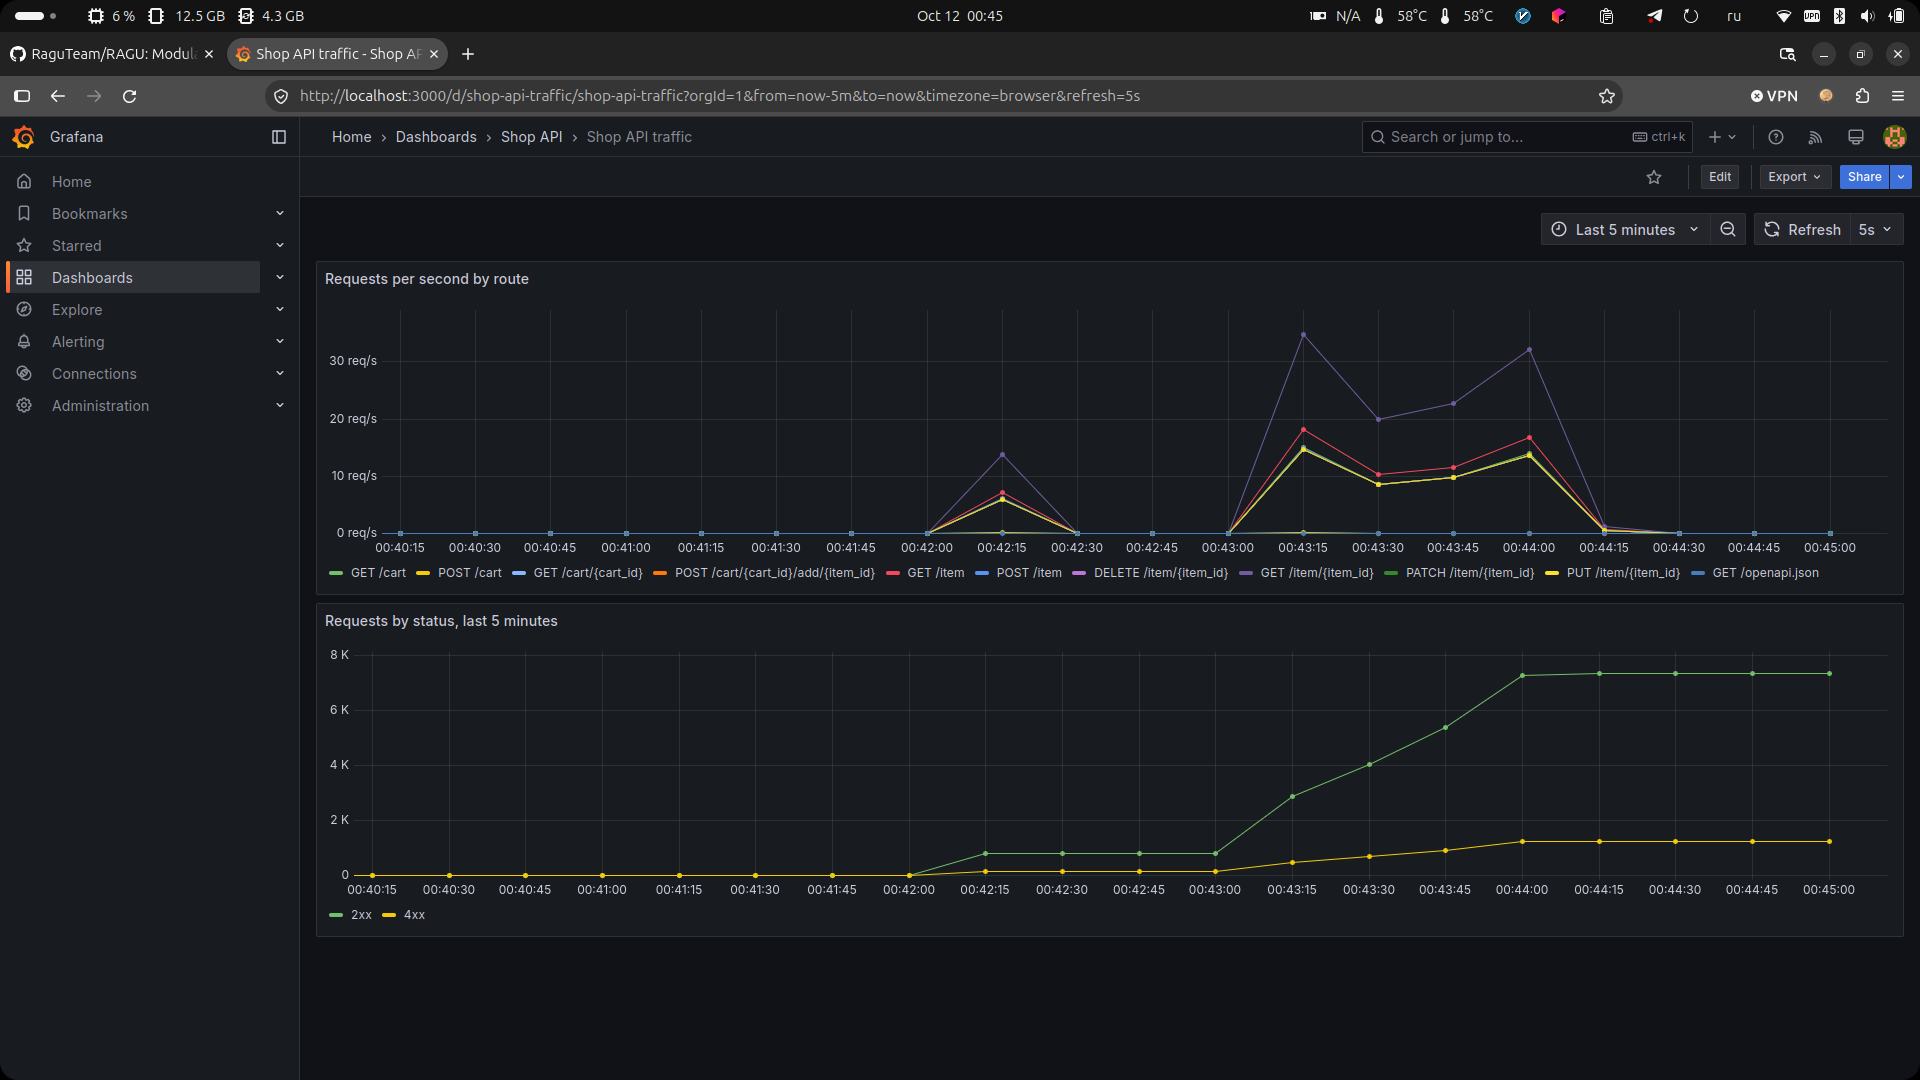
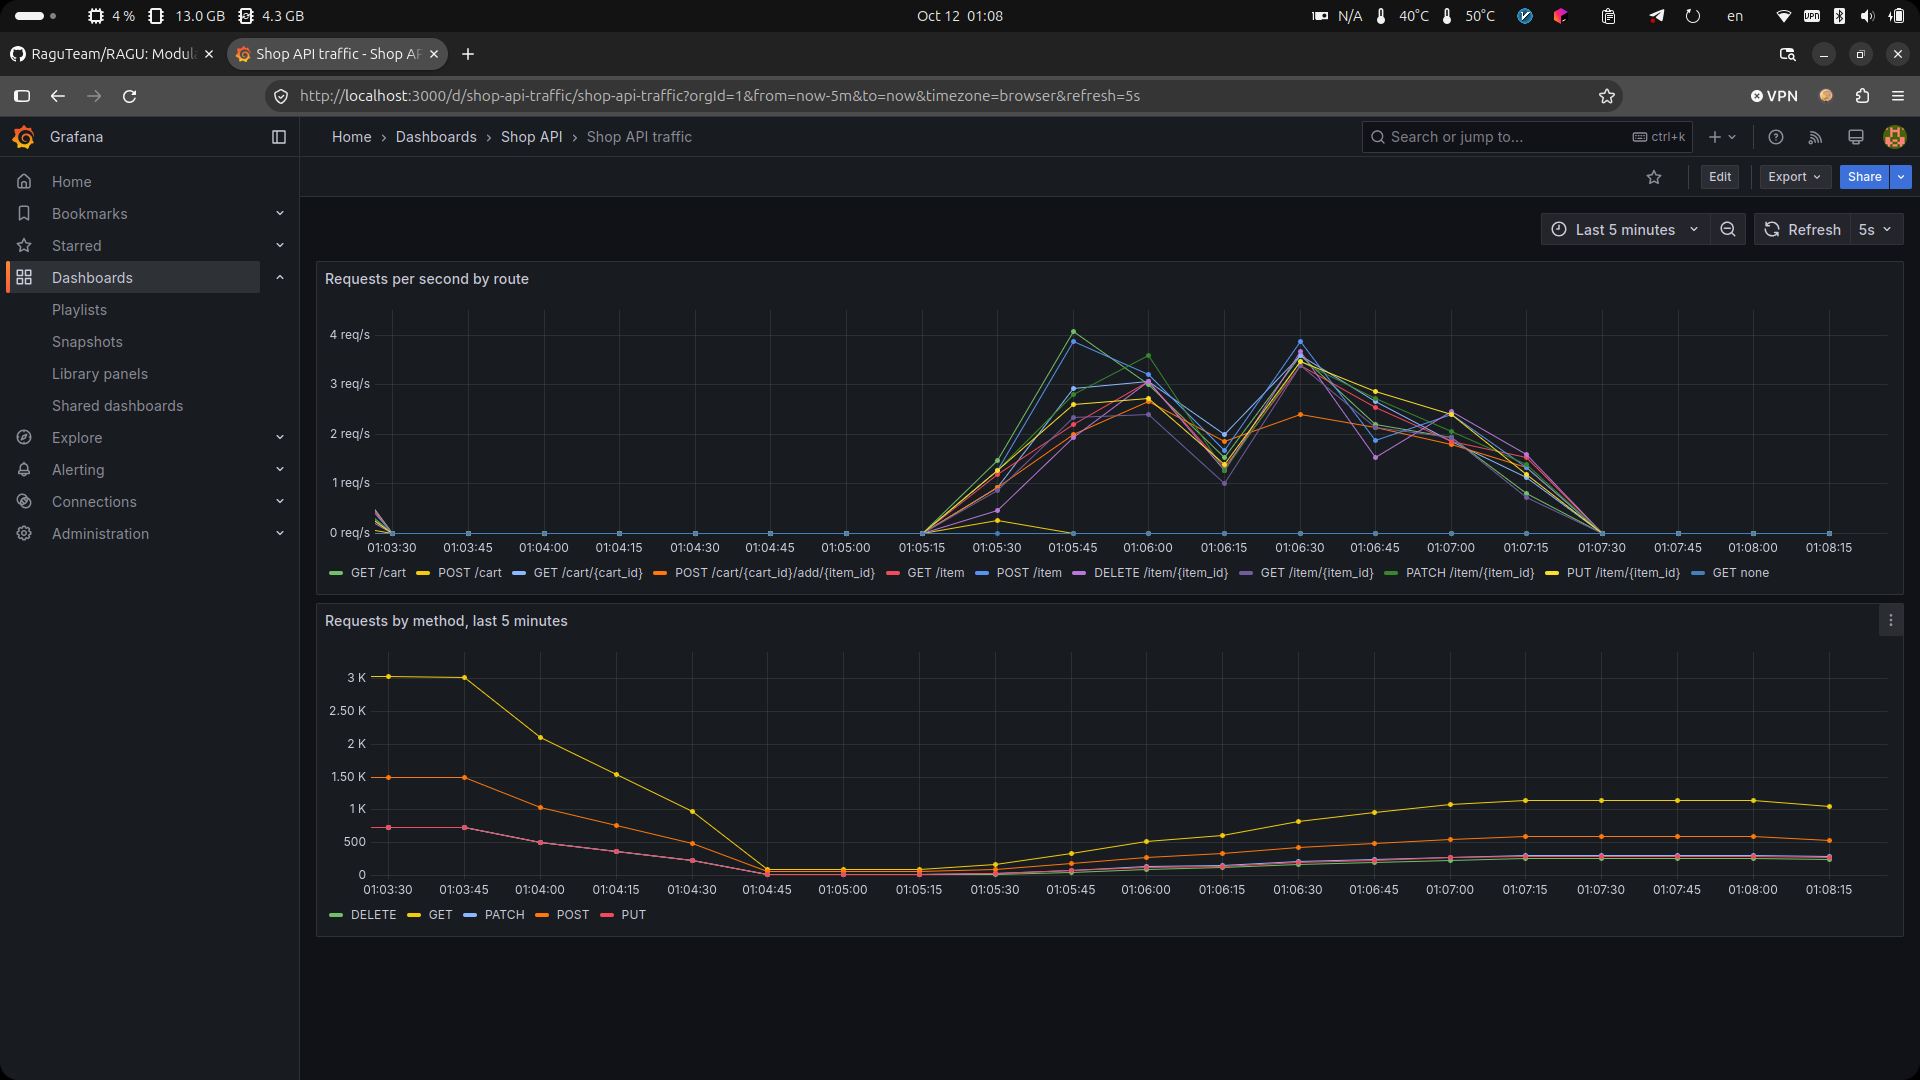
Make ddoser random

diff --git a/hw3/ddoser.py b/hw3/ddoser.py
@@ -1,5 +1,6 @@
 import argparse
 import json
+import random
 import time
 from concurrent.futures import ThreadPoolExecutor, as_completed
 from urllib.request import Request, urlopen
@@ -18,35 +19,51 @@ def pause(started):
     time.sleep(0.1 if int((time.monotonic() - started) // 12) % 2 == 0 else 0.5)
 
 
-def create_items(base_url, started, deadline, worker_id):
+def send_requests(base_url, started, deadline, worker_id):
     cart_id = request(base_url, "POST", "/cart")["id"]
-    created = 0
+    item_ids = [
+        request(base_url, "POST", "/item", {"name": f"Товар {worker_id}", "price": 100})["id"]
+    ]
+    actions = (
+        "list_items",
+        "get_item",
+        "create_item",
+        "replace_item",
+        "patch_item",
+        "list_carts",
+        "get_cart",
+        "add_to_cart",
+    )
+    sent = 2
     while time.monotonic() < deadline:
-        item_id = request(
-            base_url,
-            "POST",
-            "/item",
-            {"name": f"Товар {worker_id}-{created}", "price": 100 + created % 50},
-        )["id"]
-        request(base_url, "POST", f"/cart/{cart_id}/add/{item_id}")
-        request(base_url, "PUT", f"/item/{item_id}", {"name": "Товар дня", "price": 90})
-        request(base_url, "PATCH", f"/item/{item_id}", {"price": 80 + created % 30})
-        request(base_url, "GET", f"/cart/{cart_id}")
-        request(base_url, "DELETE", f"/item/{item_id}")
-        created += 1
+        action = random.choice(actions + (("delete_item",) if len(item_ids) > 1 else ()))
+        item_id = random.choice(item_ids)
+        match action:
+            case "list_items":
+                request(base_url, "GET", "/item?min_price=50&limit=5")
+            case "get_item":
+                request(base_url, "GET", f"/item/{item_id}")
+            case "create_item":
+                item_ids.append(request(
+                    base_url, "POST", "/item",
+                    {"name": f"Товар {worker_id}-{sent}", "price": random.randint(50, 500)},
+                )["id"])
+            case "replace_item":
+                request(base_url, "PUT", f"/item/{item_id}", {"name": "Товар дня", "price": 90})
+            case "patch_item":
+                request(base_url, "PATCH", f"/item/{item_id}", {"price": random.randint(50, 500)})
+            case "delete_item":
+                request(base_url, "DELETE", f"/item/{item_id}")
+                item_ids.remove(item_id)
+            case "list_carts":
+                request(base_url, "GET", "/cart?min_quantity=1")
+            case "get_cart":
+                request(base_url, "GET", f"/cart/{cart_id}")
+            case "add_to_cart":
+                request(base_url, "POST", f"/cart/{cart_id}/add/{item_id}")
+        sent += 1
         pause(started)
-    return created
-
-
-def get_items(base_url, started, deadline, item_ids):
-    reads = 0
-    while time.monotonic() < deadline:
-        request(base_url, "GET", "/item?min_price=50&limit=5")
-        request(base_url, "GET", f"/item/{item_ids[reads % len(item_ids)]}")
-        request(base_url, "GET", "/cart?min_quantity=1")
-        reads += 1
-        pause(started)
-    return reads
+    return sent
 
 
 def main():
@@ -55,21 +72,15 @@ def main():
     parser.add_argument("--duration", type=int, default=60)
     args = parser.parse_args()
 
-    item_ids = [
-        request(args.base_url, "POST", "/item", {"name": name, "price": price})["id"]
-        for name, price in (("Молоко", 89.9), ("Кофе", 349), ("Хлеб", 59.5))
-    ]
     started = time.monotonic()
     deadline = started + args.duration
     with ThreadPoolExecutor(max_workers=4) as executor:
         futures = {
-            executor.submit(create_items, args.base_url, started, deadline, worker_id): f"create-{worker_id}"
-            for worker_id in range(2)
+            executor.submit(send_requests, args.base_url, started, deadline, worker_id): f"worker-{worker_id}"
+            for worker_id in range(4)
         }
-        for worker_id in range(2):
-            futures[executor.submit(get_items, args.base_url, started, deadline, item_ids)] = f"get-{worker_id}"
         for future in as_completed(futures):
-            print(f"{futures[future]}: {future.result()} cycles")
+            print(f"{futures[future]}: {future.result()} requests")
 
 
 if __name__ == "__main__":
